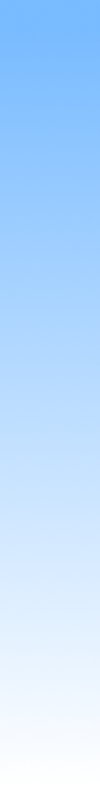
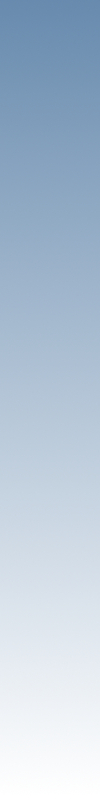
Tersh: Changed colors to blue.

diff --git a/index.html b/index.html
@@ -168,13 +168,21 @@
     <script src="http://ajax.googleapis.com/ajax/libs/jquery/1.2.6/jquery.min.js" type="text/javascript"></script>
     <script type="text/javascript">
       function repositoryLoad() {
-        var limit = 10        // how many repos to list
+        var limit = 20        // how many repos to list
         var login = 'tchalvak' // your username
 
         $.getJSON('http://github.com/api/v1/json/' + login + '?callback=?', function(data) {
           var repos = $.grep(data.user.repositories, function() {
             return !this.fork
           })
+          
+          $.getJSON('http://github.com/api/v1/json/' + login + '/ninjawars/commit/master/?callback=?', function(data) {
+          var latest_commit = $.grep(commit, function() {
+            return !this.message;
+          })
+          alert(latest_commit);
+          $('#j').append("<span id='latest-commit'>"+latest_commit+"</span>");
+          $('#j').appent("<span id='crazy'>POW</span>");
 
           repos.sort(function(a, b) {
             return b.watchers - a.watchers
@@ -186,7 +194,11 @@
         })
 
 		$("#waiting").hide(); // Hide the not yet loaded message.
-        
+		
+		    // Load latest commit message.
+			//$('#latest-commit').load("http://github.com/tchalvak/ninjawars/tree/master #commit .message");
+			$('#latest-commit-title').show();        
+			$('#latest-commit').show();        
       }
       
        $(document).ready(function() {
@@ -195,8 +207,16 @@
              alert("Hello world!");
            });
            
-           
-			setTimeout("repositoryLoad()", 10000); // Only load the repositories after a delay.
+			$('#latest-commit').hide();
+			$('#latest-commit-title').hide();
+			           
+			setTimeout("repositoryLoad()", 5000); // Only load the repositories after a delay.
+
+			
+			//$('#latest-commit').load("index.html .subtitle"); //  #commit .message
+			//$('#j').load('http://github.com/tchalvak/ninjawars/tree/master #commit');
+			//$('#latest-commit').show();
+			//$('#latest-commit-title').show();
 
            
            
@@ -272,6 +292,8 @@
       	<a href='http://github.com/tchalvak'>github.com/tchalvak</a>
       </div>
     <ul id="repos"> <!-- GITHUB REPOS -->
+      <li id='latest-commit-title'>NW latest commit</li>
+      <li id='latest-commit'></li>
       <li><h3>repositories</h3></li>
     </ul>
     </div>

diff --git a/tersh/tersh_files/style.css b/tersh/tersh_files/style.css
@@ -1,11 +1,9 @@
-
-
-
 body,td,th {
 	font-family: Arial, Helvetica, sans-serif, Impact;
 	font-size: 12px;
 	color: #333333;
 }
+
 body {
 	margin-left: 0px;
 	margin-top: 0px;
@@ -46,7 +44,7 @@ h1.error {
 }
 
 #header {
-	background-color:#467a6e;
+	background-color:#4185dd;
 	width:100%;
 	height:133px; /*Added 8 pixels to cover up the space*/
 	text-align:center;
